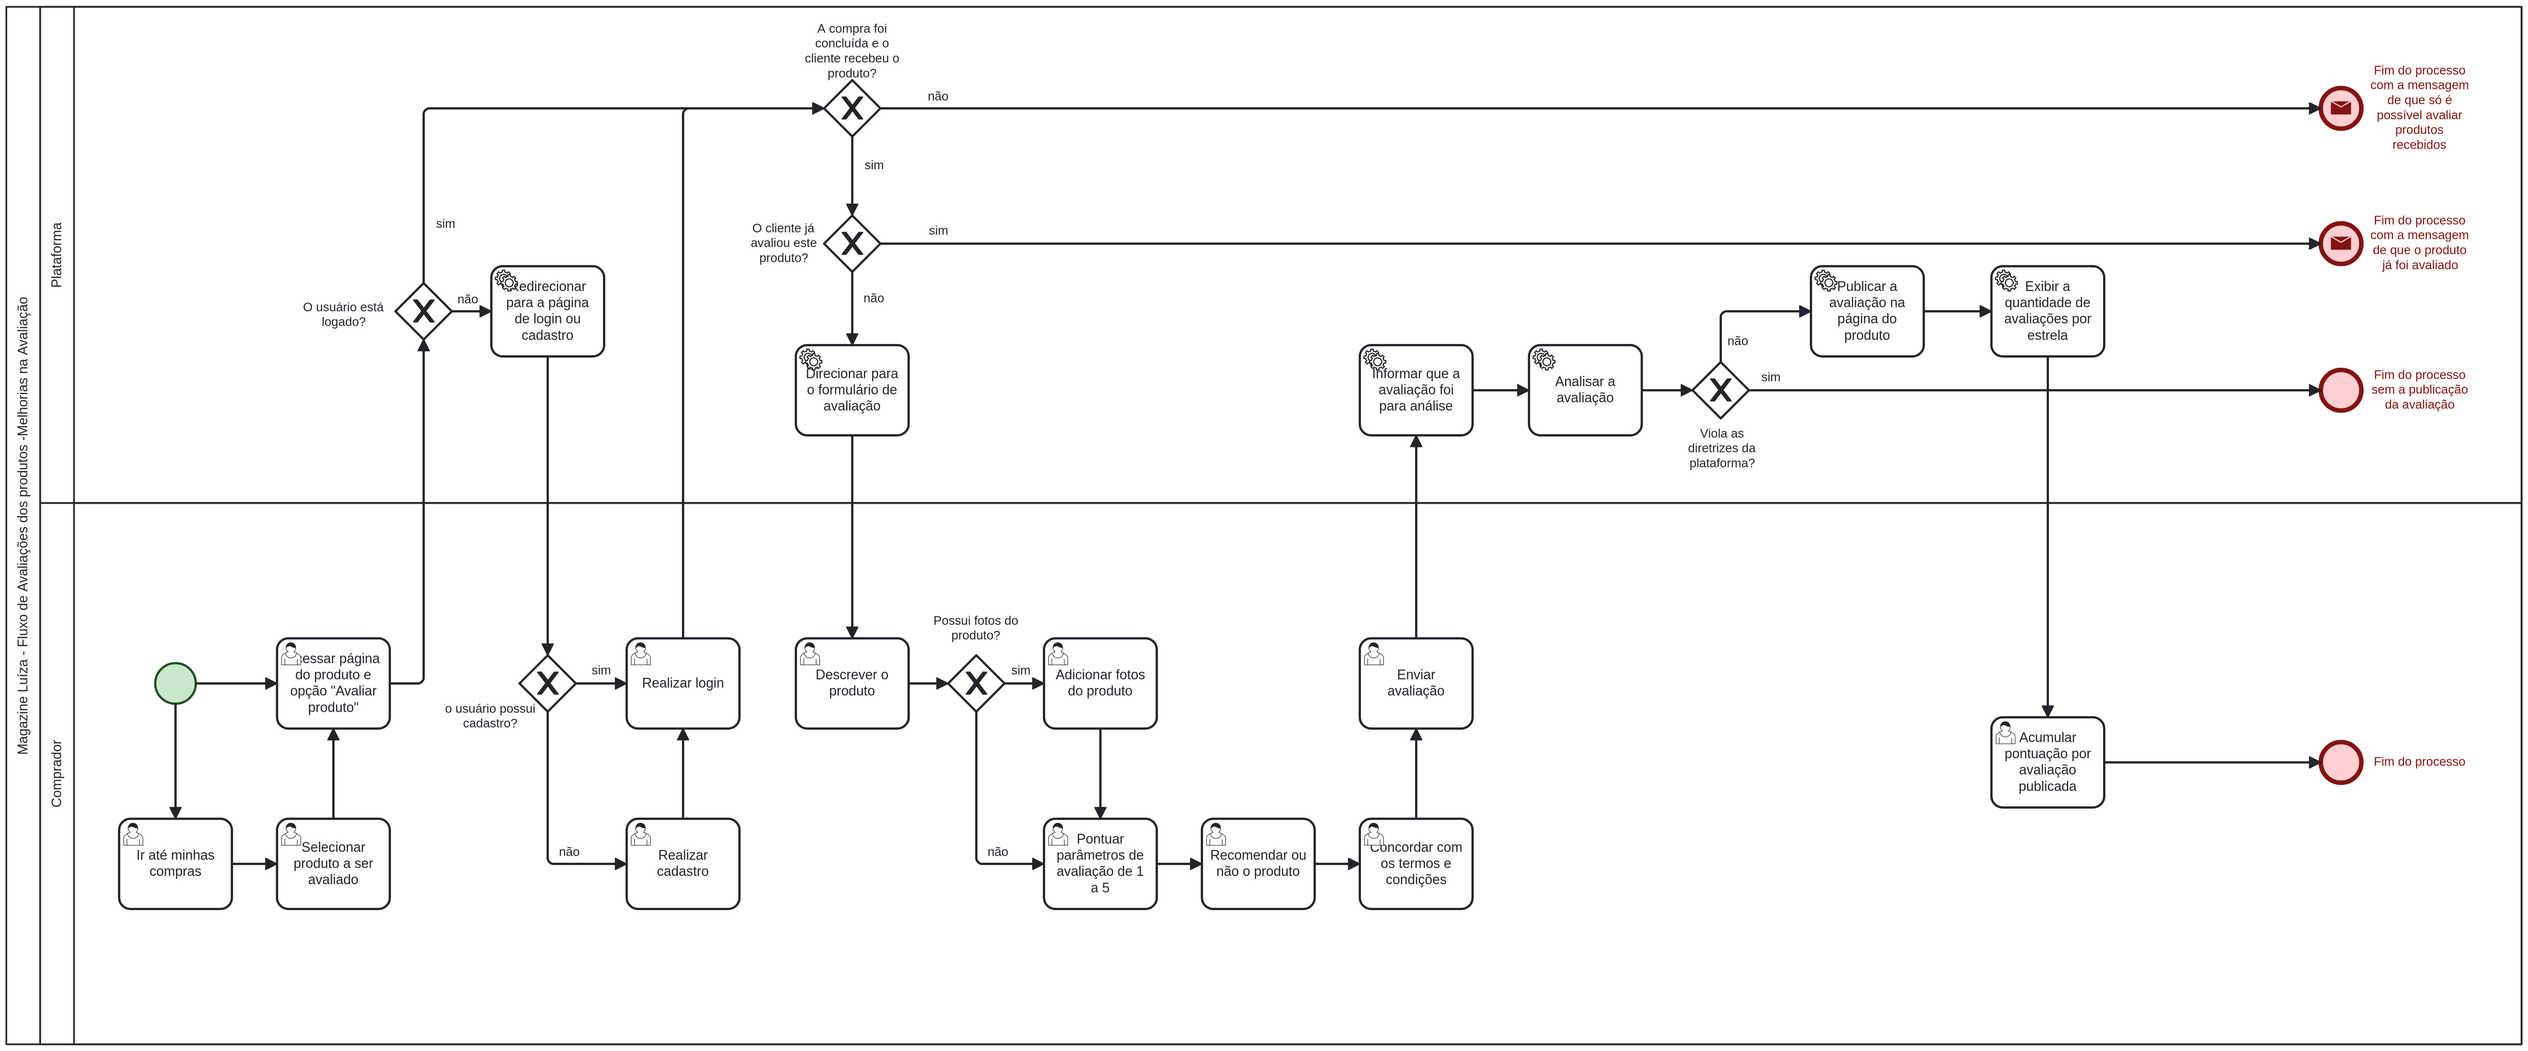
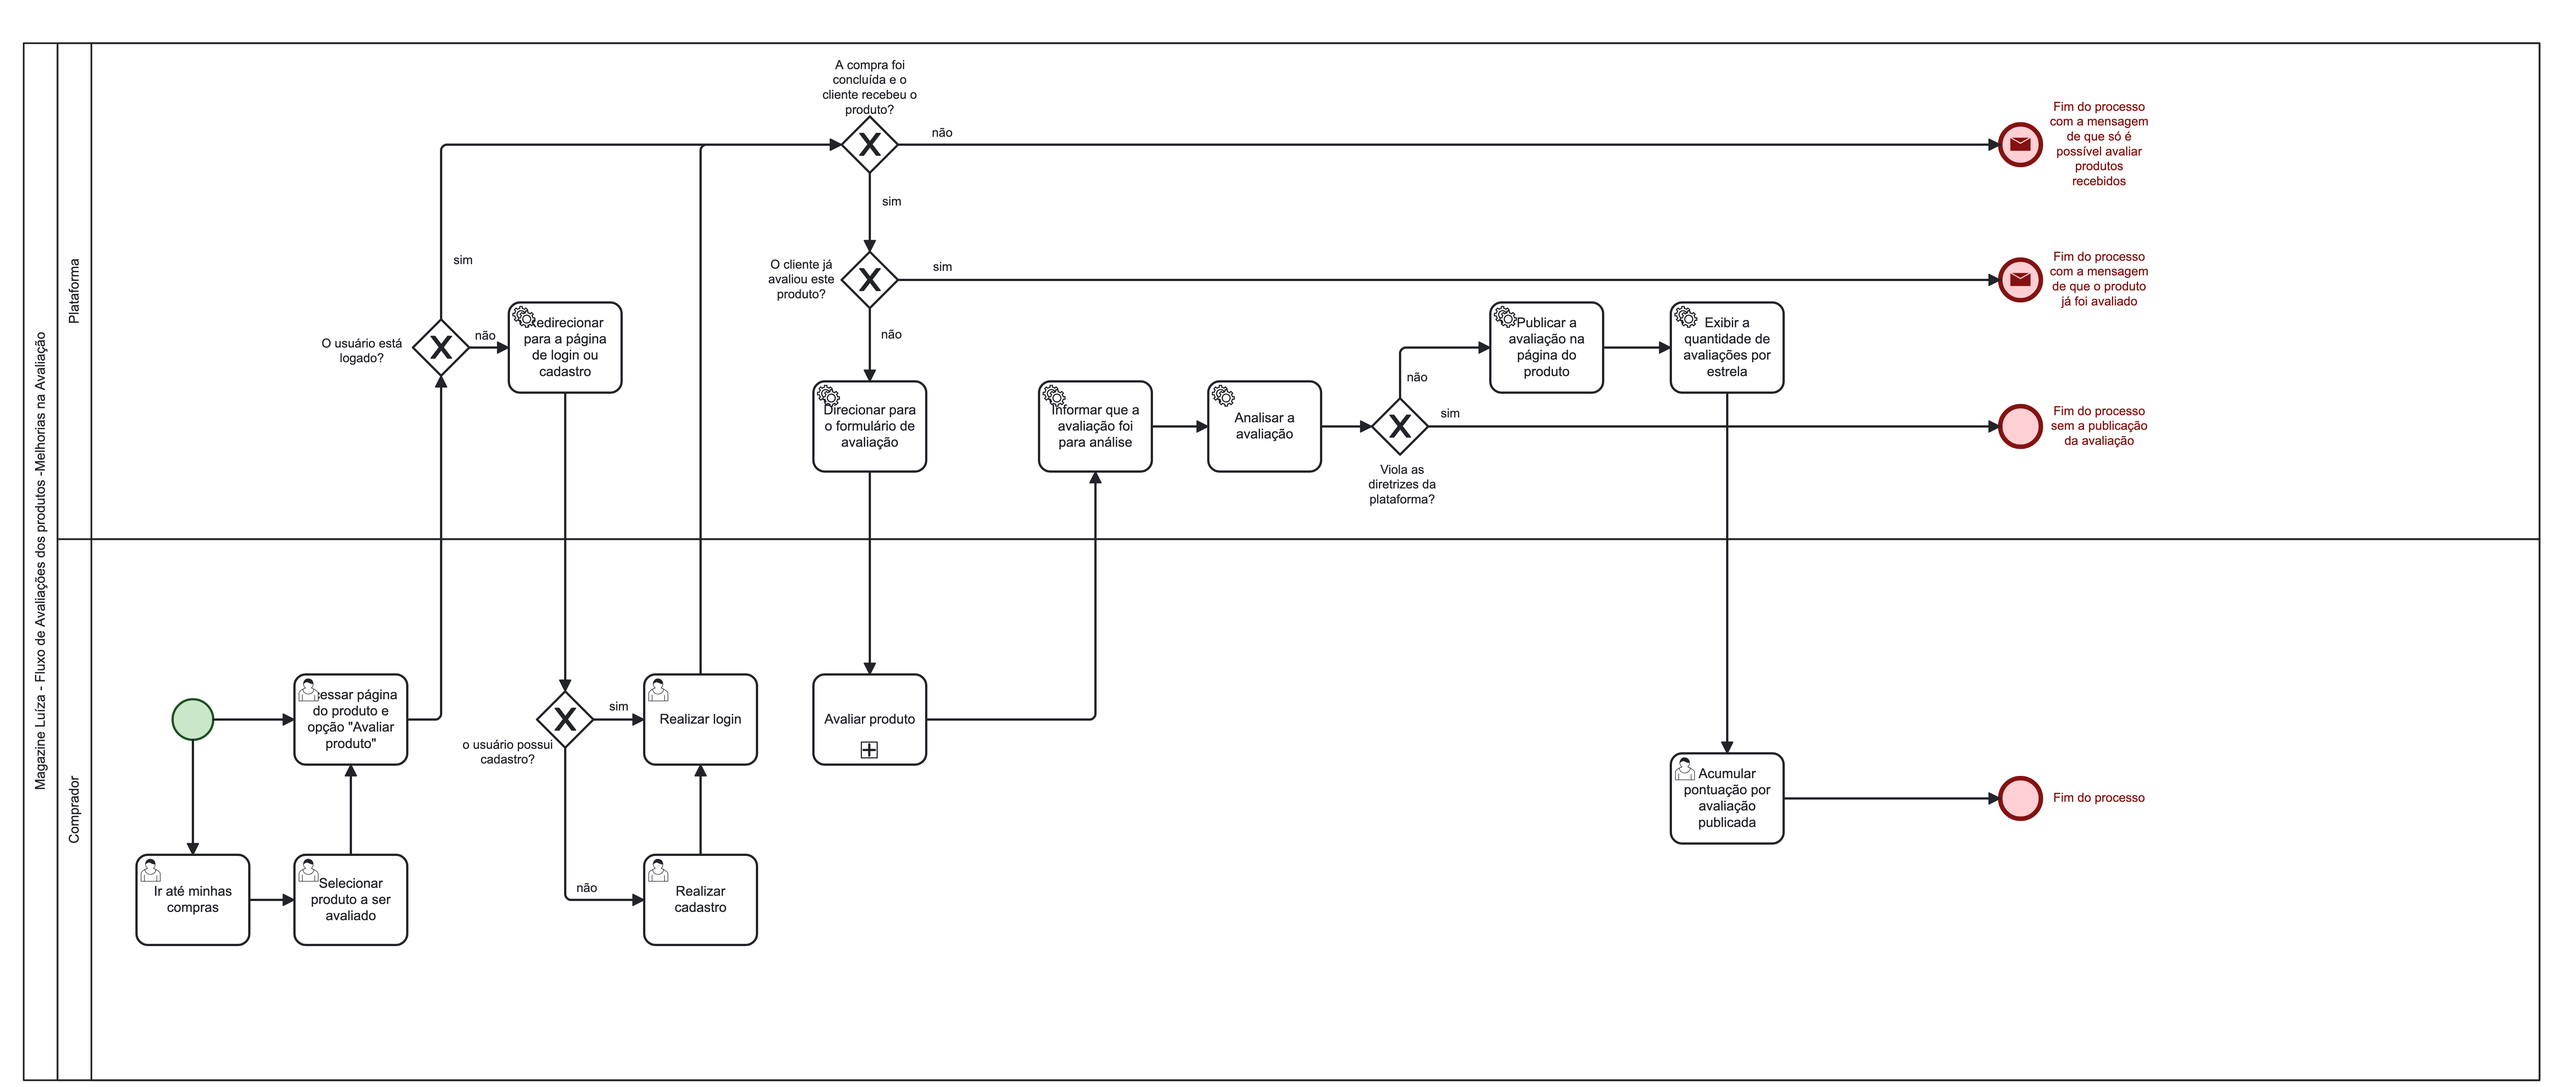
feat: adiciona subproduto de avaliação

diff --git a/docs/Base/BPMN.md b/docs/Base/BPMN.md
@@ -53,6 +53,13 @@ A Figura 4 representa o fluxo das atividades que acontecem a partir do envio de 
 <img src="../Assets/bpmn_melhorias_03_pos_avaliacao.png">
 <p style="text-align: center">Figura 4: BPMN da Plataforma - Melhorias Pós-Avaliação.</p>
 
+### 4.4. BPMN da Plataforma - Subprocesso Avaliar produto
+
+A Figura 5 representa o subprocesso de "Avaliar produto", que foi referenciado tanto no fluxo de Melhorias na Avaliação quanto no fluxo de Melhorias Pós-Avaliação.
+
+<img src="../Assets/bpmn_avaliações-subproduto.png">
+<p style="text-align: center">Figura 5: BPMN da Plataforma - Subprocesso Avaliar produto.</p>
+
 ## 5. Referências Bibliográficas
 
 > Instituto Serzedello Corrêa. Curso de mapeamento de processos de trabalho com BPMN e Bizagi - Aula 2. Disponível em: <https://portal.tcu.gov.br/lumis/portal/file/fileDownload.jsp?fileId=8A8182A24F0A728E014F0B27E6D51C6C>. Acesso em: 12 set. de 2023.
@@ -70,5 +77,6 @@ A Figura 4 representa o fluxo das atividades que acontecem a partir do envio de 
 | 12/09/2023 |  1.2   | Confecção do BPMN atual da plataforma | [Charles Serafim](https://github.com/charles-serafim), [Gabrielly Assunção](https://github.com/GabriellyAssuncao), [Laís Ramos](https://github.com/laisramos123) | [Thiago Cerqueira](https://github.com/Thiago-Cerq) |
 | 12/09/2023 |  1.3   | Adição da metodologia e referências | [Charles Serafim](https://github.com/charles-serafim) |[Laís Ramos](https://github.com/laisramos123)|
 | 12/09/2023 |  1.3   | Adição da imagem do BPMN do produto | [Laís Ramos](https://github.com/laisramos123) | [Charles Serafim](https://github.com/charles-serafim) |
-| 14/09/2023 |  1.4   | Confecção do BPMN das melhorias | [Charles Serafim](https://github.com/charles-serafim), [Clara Ribeiro](https://github.com/clara-marcelino-desco), [Gabrielly Assunção](https://github.com/GabriellyAssuncao), [Laís Ramos](https://github.com/laisramos123), [Thiago Cerqueira](https://github.com/Thiago-Cerq) | Grupo |
+| 14/09/2023 |  1.4   | Confecção do BPMN das melhorias | [Charles Serafim](https://github.com/charles-serafim), [Clara Ribeiro](https://github.com/clara-ribeiro), [Gabrielly Assunção](https://github.com/GabriellyAssuncao), [Laís Ramos](https://github.com/laisramos123), [Thiago Cerqueira](https://github.com/Thiago-Cerq) | Grupo |
 | 14/09/2023 |  1.5   | Adição do BPMN das melhorias | [Charles Serafim](https://github.com/charles-serafim) | [Thiago Cerqueira](https://github.com/Thiago-Cerq) |
+| 14/09/2023 |  1.6   | Adição do subprocesso de avaliação | [Clara Ribeiro](https://github.com/clara-ribeiro) | [Charles Serafim](https://github.com/charles-serafim) |

diff --git a/docs/_sidebar.md b/docs/_sidebar.md
@@ -7,10 +7,13 @@
   - [1. Desenho de Software (Base)](./Base/1.Base.md)
     - [1.1. Módulo Projeto Não Orientado a Abordagens Específicas](./Base/1.1.AbordagemNaoEspecifica.md)
     - [1.2. Módulo Processos/Metodologias/Abordagens](./Base/1.2.ProcessosMetodologiasAbordagens.md)
-      - [BPMN](Base/BPMN.md)
     - [1.3. Participações - Base](./Base/1.3.ParticipacoesBase.md)
-    - [1.4. Léxicos](./Base/Lexicos.md)
-    - [1.5. Glossário](./Base/Glossario.md)
+    - [1.4. Design Sprint](./Base/DesignSprint.md)
+      - [1.4.1 Léxicos](./Base/Lexicos.md)
+      - [1.4.2 Glossário](./Base/Glossario.md)
+      - [1.4.3 Brainstorm](./Base/Brainstorm.md)
+      - [1.4.4 Mapa Mental](./Base/MapaMental.md)
+      - [1.4.5 BPMN da Plataforma](./Base/BPMN.md)
 
 - **Modelagem**
   - [2. Desenho de Software (Modelagem)](./Modelagem/2.Modelagem.md)
